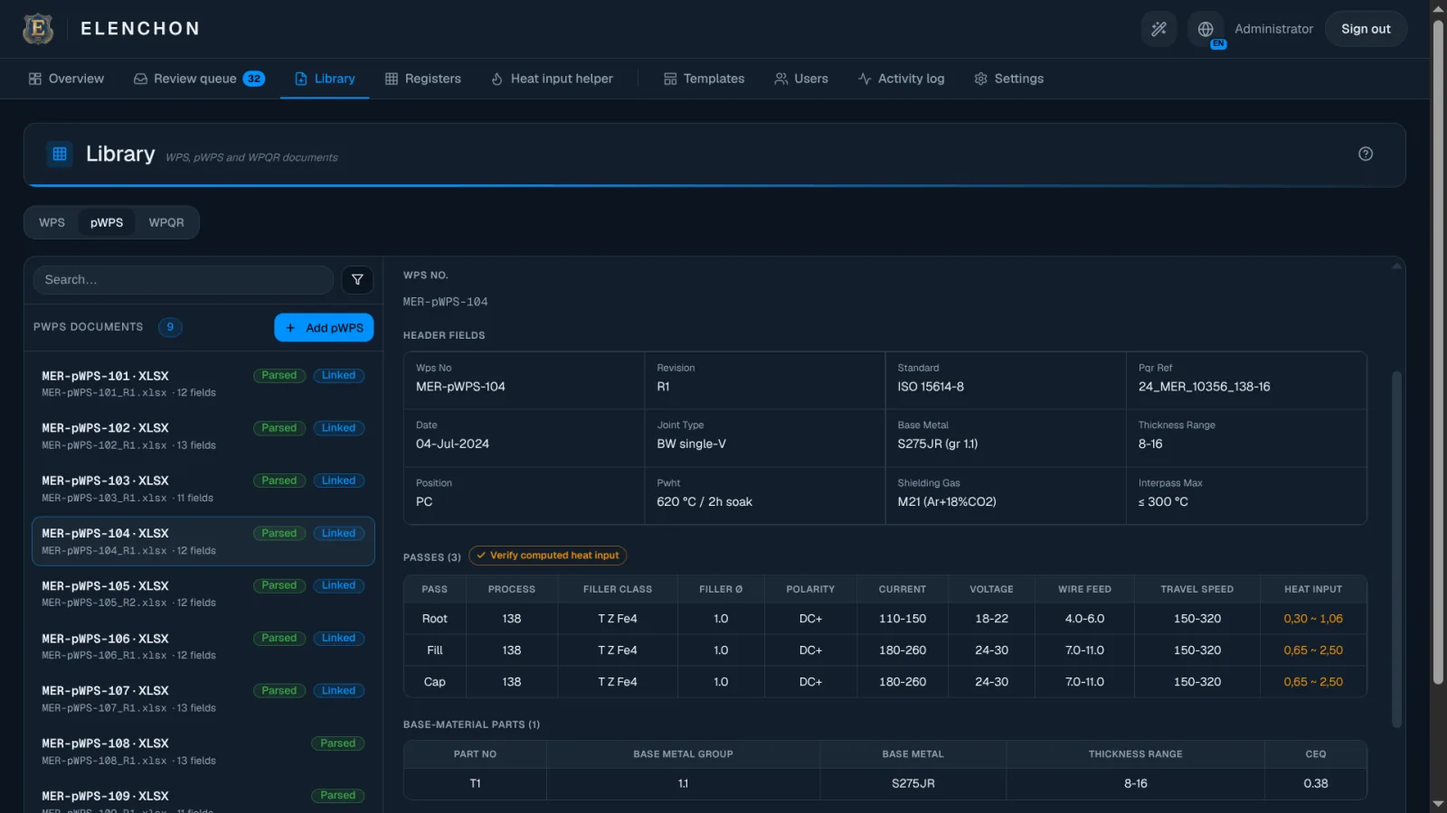
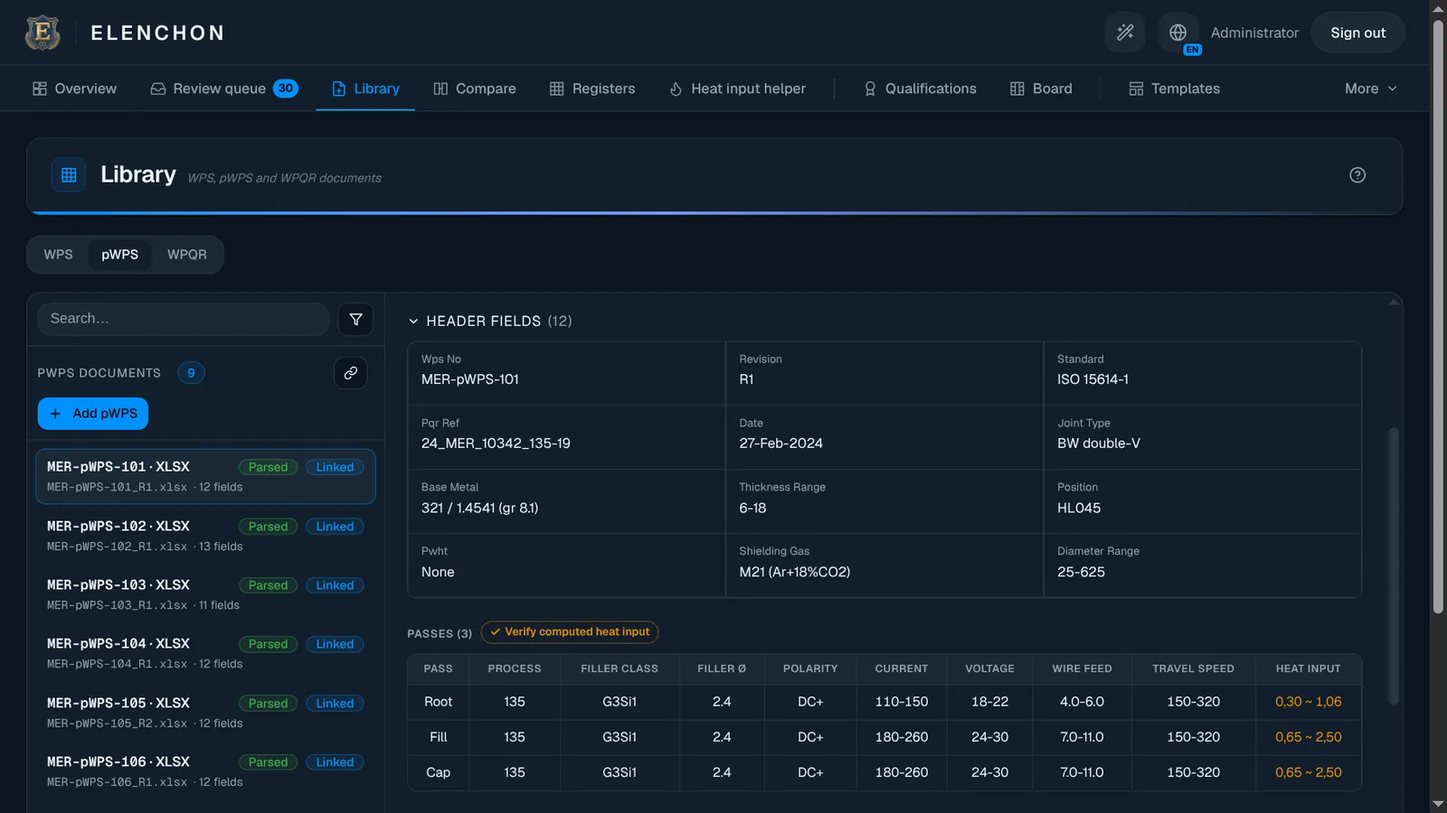
update sss

diff --git a/docs/wps-manager-features.html b/docs/wps-manager-features.html
@@ -38,8 +38,8 @@ alt_url: "/pt/wps-manager-features.html"
         </div>
         {% include app-shot.html
             name="overview" wide="true" w="1600" h="900"
-            alt="Elenchon overview dashboard: a Needs Attention panel with 29 WPS fields to review, register up to date, and At a Glance tiles showing 26 WPS, 9 pWPS, 11 WPQR, 26 WPS with a WPQR and 7 team members"
-            cap="The overview: fields flagged for a check, the register's status, and the full library count — WPS, pWPS and WPQR — in one place." %}
+            alt="Elenchon overview dashboard: a Needs Attention panel with one lapsed qualification, 30 WPS fields to review, register up to date, one welder qualification expiring soon and three welders due for reverification, above At a Glance tiles showing 26 WPS, 9 pWPS, 11 WPQR, 26 WPS with a WPQR, 8 workers holding 11 qualifications and 7 team members"
+            cap="The overview: fields flagged for a check, the register's status, what's due on the qualification side, and the full count — WPS, pWPS, WPQR and welders — in one place." %}
         <p class="story-note">The <strong>Needs attention</strong> panel surfaces the parsed values read with low confidence and links straight to them; everything the app is confident about stays out of your way.</p>
     </section>
 
@@ -100,7 +100,7 @@ alt_url: "/pt/wps-manager-features.html"
         <div class="glass-card feature-block feature-block-solo" id="registers-detail">
             <span class="feature-index">03</span>
             <ul class="feature-list">
-                <li><strong>Visualised, not just stored:</strong> Your master sheet opens as a fast, filterable grid — here, 36 rows across 28 columns — instead of a spreadsheet you scroll by hand.</li>
+                <li><strong>Visualised, not just stored:</strong> Your master sheet opens as a fast, filterable grid — here, 27 rows across 28 columns — instead of a spreadsheet you scroll by hand.</li>
                 <li><strong>Every version kept:</strong> Each approved change-set makes a new version. Roll back to any snapshot; the newest is always protected.</li>
                 <li><strong>Export on demand:</strong> Produce a clean Excel workbook whenever you need it — or an export bundle (.zip) with the register plus the folder of linked WPS files, so the paperwork travels with the sheet.</li>
                 <li><strong>Re-compute &amp; sync:</strong> Pull the latest values from the library into the register in one action, so the sheet never quietly drifts from the documents behind it.</li>
@@ -132,9 +132,9 @@ alt_url: "/pt/wps-manager-features.html"
         </div>
         {% include app-shot.html
             name="library" wide="true" w="1600" h="900"
-            alt="Library detail for MER-pWPS-104: header fields including qualification standard ISO 15614-8, supporting PQR reference and base metal S275JR, a three-pass table (root, fill, cap) on process 138 with filler class, current, voltage, travel speed and heat input, and a base-material parts table below"
-            cap="A document read to the field: the header block, every pass — root to cap — with its parameters and heat-input values, and the base-material parts, all structured and searchable." %}
-        <p class="story-note">MER-pWPS-104, read from an Excel workbook: ISO&nbsp;15614-8, S275JR, three passes on process 138, each with its own current, voltage and travel-speed window — and the base-material parts read into their own table.</p>
+            alt="Library detail for MER-pWPS-101: twelve header fields including standard ISO 15614-1, PQR reference 24_MER_10342_135-19, a BW double-V joint, base metal 321 / 1.4541, thickness and diameter ranges and M21 shielding gas, above a three-pass table (root, fill, cap) on process 135 with G3Si1 filler, polarity, current, voltage, wire feed, travel speed and computed heat input flagged for verification"
+            cap="A document read to the field: the header block and every pass — root to cap — with its parameters and heat-input values, all structured and searchable." %}
+        <p class="story-note">MER-pWPS-101, read from an Excel workbook: ISO&nbsp;15614-1, a 321 stainless double-V, three passes on process 135, each with its own current, voltage, wire-feed and travel-speed window. The heat input was left blank on the form, so the app computed it — and shows it in amber behind a single <strong>Verify computed heat input</strong> check until someone confirms it.</p>
     </section>
 
     <!-- ===================== LINKED CHAIN ===================== -->
@@ -200,8 +200,8 @@ alt_url: "/pt/wps-manager-features.html"
         </div>
         {% include app-shot.html
             name="quals-grid" wide="true" w="1600" h="900"
-            alt="Welder qualification grid: welders in rows, welding processes in columns, each cell colour-coded to the soonest-due qualification for that welder and process, with filter controls above"
-            cap="The qualification grid: welders against the processes they hold, each cell coloured by what’s due soonest — filterable down to a single process or standard." %}
+            alt="Qualification board: eight welders in rows against processes 111, 121, 135, 136, 138 and 141, each held qualification coloured by status — clear, due within a month, two weeks or this week, or expired — with a colour legend, a Show standard toggle and a Filter button above"
+            cap="The qualification board: welders against the processes they hold, each cell coloured by what’s due soonest — from clear through to expired — and filterable down to a single process or standard." %}
     </section>
 
     <section class="page-section container" id="qualification-warnings">
@@ -220,9 +220,9 @@ alt_url: "/pt/wps-manager-features.html"
             </ul>
         </div>
         {% include app-shot.html
-            name="quals-warnings" wide="true" w="1600" h="900"
-            alt="Welder qualification dashboard warnings: a panel showing how many qualifications are expiring soon, colour-coded by proximity, with email reminder recipients configured"
-            cap="Warnings on the dashboard: what’s expiring soon, colour-coded by how close, with opt-in email reminders to a recipient list." %}
+            name="quals-warnings" wide="true" w="1600" h="334"
+            alt="The Needs Attention panel on the overview: one qualification has lapsed and needs a catch-up or signed expiration, one welder qualification expires within a month, and three welders need reverification — one this week, one within two weeks, one within a month — each linking to the qualifications page or the board"
+            cap="Warnings on the dashboard: a lapsed qualification, what’s expiring soon, and who’s due for reverification — broken down by how close, one click from the board." %}
     </section>
 
     <section class="page-section container" id="qualification-record">
@@ -243,8 +243,8 @@ alt_url: "/pt/wps-manager-features.html"
         </div>
         {% include app-shot.html
             name="quals-record" wide="true" w="1600" h="900"
-            alt="A welder qualification record with a signed requalification stamp showing date and name, the attached certificate viewable, and a side-by-side file viewer comparing two documents"
-            cap="A qualification record: the signed, dated requalification stamp, the attached certificate, and the side-by-side viewer set to compare any two files." %}
+            alt="Qualifications page: a welder list sorted by soonest due with status dots, and the record for Simon Lowe (A1004) showing two ISO 9606-1 qualifications — process 111 with continuity lapsed on 13/09/2026 and Catch up and Confirm expiration actions, and process 135 in date — each with expiry and continuity dates and a signed, dated confirmation naming the NDT report and job weld log it was based on"
+            cap="A welder’s record: each qualification’s expiry and continuity dates, the signed and dated confirmation with the evidence behind it, and the next action — catch up, confirm or retire — one click away." %}
     </section>
 
     <!-- ===================== SECURITY ===================== -->

diff --git a/docs/es/wps-manager-features.html b/docs/es/wps-manager-features.html
@@ -40,7 +40,7 @@ alt_url: "/wps-manager-features.html"
         </div>
         {% include app-shot.html
             name="overview" wide="true" w="1600" h="900"
-            alt="Panel de resumen del Elenchon: un panel Necesita atención con 29 campos de WPS que revisar, registro actualizado, y mosaicos con 26 WPS, 9 pWPS, 11 WPQR, 26 WPS con WPQR y 7 miembros de equipo"
+            alt="Panel de resumen del Elenchon: un panel Necesita atención con una cualificación caducada, 30 campos de WPS que revisar, registro actualizado, una cualificación de soldador por vencer y tres soldadores que necesitan reverificación, y mosaicos con 26 WPS, 9 pWPS, 11 WPQR, 26 WPS con WPQR, 8 soldadores con 11 cualificaciones y 7 miembros de equipo"
             cap="El resumen: campos señalados para verificación, el estado del registro, y el recuento completo de la biblioteca — WPS, pWPS y WPQR — en un solo lugar." %}
         <p class="story-note">El panel <strong>Necesita atención</strong> destaca los valores leídos con baja confianza y enlaza directamente a ellos; todo aquello de lo que la aplicación tiene certeza queda fuera de su camino.</p>
     </section>
@@ -102,7 +102,7 @@ alt_url: "/wps-manager-features.html"
         <div class="glass-card feature-block feature-block-solo" id="registers-detail">
             <span class="feature-index">03</span>
             <ul class="feature-list">
-                <li><strong>Visualizada, no solo guardada:</strong> Su hoja maestra abre como cuadrícula rápida y filtrable — aquí, 36 filas por 28 columnas — en lugar de una hoja que recorre a mano.</li>
+                <li><strong>Visualizada, no solo guardada:</strong> Su hoja maestra abre como cuadrícula rápida y filtrable — aquí, 27 filas por 28 columnas — en lugar de una hoja que recorre a mano.</li>
                 <li><strong>Cada versión guardada:</strong> Cada conjunto de cambios aprobado crea una nueva versión. Revierta a cualquier instantánea; la más reciente está siempre protegida.</li>
                 <li><strong>Exportación a demanda:</strong> Produzca una hoja Excel limpia cuando necesite — o un paquete de exportación (.zip) con el registro más la carpeta de ficheros WPS asociados, para que la documentación viaje con la hoja.</li>
                 <li><strong>Recalcular y sincronizar:</strong> Traiga los valores más recientes de la biblioteca al registro en una acción, para que la hoja nunca se desalinee de los documentos detrás de ella.</li>
@@ -134,9 +134,9 @@ alt_url: "/wps-manager-features.html"
         </div>
         {% include app-shot.html
             name="library" wide="true" w="1600" h="900"
-            alt="Detalle de la biblioteca para MER-pWPS-104: campos de cabecera incluyendo norma de cualificación ISO 15614-8, referencia del PQR de soporte y metal base S275JR, una tabla de tres pasadas (raíz, relleno, peineta) en el proceso 138 con clase de consumible, corriente, tensión, velocidad y aporte térmico, y una tabla de material base debajo"
-            cap="Un documento leído al campo: el bloque de cabecera, cada pasada — de la raíz a la peineta — con sus parámetros y valores de aporte térmico, y el material base, todo estructurado y buscable." %}
-        <p class="story-note">MER-pWPS-104, leído de una hoja Excel: ISO&nbsp;15614-8, S275JR, tres pasadas en el proceso 138, cada una con su ventana de corriente, tensión y velocidad — y el material base leído a su propia tabla.</p>
+            alt="Detalle de la biblioteca para MER-pWPS-101: doce campos de cabecera incluyendo la norma ISO 15614-1, la referencia de PQR 24_MER_10342_135-19, una junta BW en doble V, metal base 321 / 1.4541, rangos de espesor y diámetro y gas de protección M21, sobre una tabla de tres pasadas (raíz, relleno, peineta) en el proceso 135 con consumible G3Si1, polaridad, corriente, tensión, velocidad de hilo, velocidad de avance y aporte térmico calculado, señalado para verificación"
+            cap="Un documento leído al campo: el bloque de cabecera y cada pasada — de la raíz a la peineta — con sus parámetros y valores de aporte térmico, todo estructurado y buscable." %}
+        <p class="story-note">MER-pWPS-101, leído de una hoja Excel: ISO&nbsp;15614-1, un doble V en inoxidable 321, tres pasadas en el proceso 135, cada una con su ventana de corriente, tensión, velocidad de hilo y velocidad de avance. El aporte térmico venía en blanco en el formulario, así que la aplicación lo calculó — y lo muestra en ámbar tras una única comprobación <strong>Verificar aporte térmico calculado</strong> hasta que alguien lo confirme.</p>
     </section>
 
     <!-- CADENA -->

diff --git a/docs/pt/wps-manager-features.html b/docs/pt/wps-manager-features.html
@@ -40,7 +40,7 @@ alt_url: "/wps-manager-features.html"
         </div>
         {% include app-shot.html
             name="overview" wide="true" w="1600" h="900"
-            alt="Painel de resumo do Elenchon: um painel Precisa de atenção com 29 campos de WPS a rever, registo atualizado, e mosaicos com 26 WPS, 9 pWPS, 11 WPQR, 26 WPS com WPQR e 7 membros de equipa"
+            alt="Painel de resumo do Elenchon: um painel Precisa de atenção com uma qualificação caducada, 30 campos de WPS a rever, registo atualizado, uma qualificação de soldador a expirar e três soldadores a precisar de reverificação, e mosaicos com 26 WPS, 9 pWPS, 11 WPQR, 26 WPS com WPQR, 8 soldadores com 11 qualificações e 7 membros de equipa"
             cap="O resumo: campos sinalizados para verificação, o estado do registo, e a contagem completa da biblioteca — WPS, pWPS e WPQR — num só lugar." %}
         <p class="story-note">O painel <strong>Precisa de atenção</strong> destaca os valores lidos com baixa confiança e liga diretamente a eles; tudo aquilo de que a aplicação tem a certeza fica fora do seu caminho.</p>
     </section>
@@ -102,7 +102,7 @@ alt_url: "/wps-manager-features.html"
         <div class="glass-card feature-block feature-block-solo" id="registers-detail">
             <span class="feature-index">03</span>
             <ul class="feature-list">
-                <li><strong>Visualizada, não apenas guardada:</strong> A sua folha-mestre abre como grelha rápida e filtrável — aqui, 36 linhas por 28 colunas — em vez de uma folha que percorre à mão.</li>
+                <li><strong>Visualizada, não apenas guardada:</strong> A sua folha-mestre abre como grelha rápida e filtrável — aqui, 27 linhas por 28 colunas — em vez de uma folha que percorre à mão.</li>
                 <li><strong>Cada versão guardada:</strong> Cada conjunto de alterações aprovado cria uma nova versão. Reverta para qualquer instantâneo; a mais recente está sempre protegida.</li>
                 <li><strong>Exportação a pedido:</strong> Produza uma folha Excel limpa quando precisar — ou um pacote de exportação (.zip) com o registo mais a pasta de ficheiros WPS associados, para a papelada viajar com a folha.</li>
                 <li><strong>Recalcular e sincronizar:</strong> Puxe os valores mais recentes da biblioteca para o registo numa ação, para a folha nunca se desalinhar dos documentos por trás dela.</li>
@@ -134,9 +134,9 @@ alt_url: "/wps-manager-features.html"
         </div>
         {% include app-shot.html
             name="library" wide="true" w="1600" h="900"
-            alt="Detalhe da biblioteca para MER-pWPS-104: campos de cabeçalho incluindo norma de qualificação ISO 15614-8, referência do PQR de suporte e metal base S275JR, uma tabela de três passes (raiz, enchimento, capa) no processo 138 com classe de consumível, corrente, tensão, velocidade e aporte térmico, e uma tabela de material de base por baixo"
-            cap="Um documento lido ao campo: o bloco de cabeçalho, cada passe — da raiz à capa — com os seus parâmetros e valores de aporte térmico, e o material de base, tudo estruturado e pesquisável." %}
-        <p class="story-note">MER-pWPS-104, lido de uma folha Excel: ISO&nbsp;15614-8, S275JR, três passes no processo 138, cada um com a sua janela de corrente, tensão e velocidade — e o material de base lido para a sua própria tabela.</p>
+            alt="Detalhe da biblioteca para MER-pWPS-101: doze campos de cabeçalho incluindo a norma ISO 15614-1, a referência de PQR 24_MER_10342_135-19, uma junta BW em duplo V, metal base 321 / 1.4541, gamas de espessura e diâmetro e gás de proteção M21, sobre uma tabela de três passes (raiz, enchimento, capa) no processo 135 com consumível G3Si1, polaridade, corrente, tensão, velocidade do fio, velocidade de avanço e aporte térmico calculado, sinalizado para verificação"
+            cap="Um documento lido ao campo: o bloco de cabeçalho e cada passe — da raiz à capa — com os seus parâmetros e valores de aporte térmico, tudo estruturado e pesquisável." %}
+        <p class="story-note">MER-pWPS-101, lido de uma folha Excel: ISO&nbsp;15614-1, um duplo V em inox 321, três passes no processo 135, cada um com a sua janela de corrente, tensão, velocidade do fio e velocidade de avanço. O aporte térmico vinha em branco no formulário, por isso a aplicação calculou-o — e mostra-o a âmbar atrás de uma única verificação <strong>Verificar aporte térmico calculado</strong> até alguém o confirmar.</p>
     </section>
 
     <!-- CADEIA -->

diff --git a/docs/es/wps-library-search-software.html b/docs/es/wps-library-search-software.html
@@ -7,7 +7,7 @@ description: "Gestione toda su biblioteca de WPS en la aplicación — cada WPS,
 og_title: "Biblioteca y Búsqueda de WPS — Gestione Cada WPS en Un Solo Lugar | Elenchon Atlas"
 og_description: "Una biblioteca de WPS que comprende sus documentos: filtre por proceso, material, posición, lado y función de la pasada; revisiones agrupadas automáticamente; WPS↔WPQR↔pWPS asociadas; edite y verifique en el momento. Gestione toda la biblioteca en la aplicación — sin necesidad de Excel."
 og_image: "/static/wpsm/library.webp"
-og_image_alt: "Elenchon Atlas — the WPS library with header fields, the pass table and facet filters"
+og_image_alt: "Elenchon Atlas — the WPS library with header fields and the pass table"
 twitter_large: true
 og_image_alt: "Elenchon Atlas by Delteris — software de biblioteca y búsqueda de WPS"
 schema: schema/wps-library-search-software.json
@@ -48,8 +48,8 @@ alt_url: "/wps-library-search-software.html"
     <section class="page-section container u-tight-top" id="screenshot-hero">
         {% include app-shot.html
             name="library" wide="true"
-            alt="Biblioteca del Atlas — pestañas WPS, pWPS y WPQR, un documento que muestra campos de cabecera y la tabla de pasadas, con el panel de facetas abierto"
-            cap="La biblioteca: pestañas WPS / pWPS / WPQR, la tabla de pasadas completa con lado y función, y las facetas abiertas."
+            alt="Biblioteca del Atlas — pestañas WPS, pWPS y WPQR, una lista de pWPS leídos y asociados, y el MER-pWPS-101 abierto con sus doce campos de cabecera y una tabla de tres pasadas con aporte térmico calculado señalado para verificación"
+            cap="La biblioteca: pestañas WPS / pWPS / WPQR, cada documento marcado como Leído y Asociado, y un pWPS leído hasta el bloque de cabecera y la tabla de pasadas completa."
             ph="La biblioteca — pestañas WPS/pWPS/WPQR, un doc que muestra cabecera + tabla de pasadas (lado/función), panel de facetas, indicador «N revisiones»." %}
     </section>
 

diff --git a/docs/pt/wps-library-search-software.html b/docs/pt/wps-library-search-software.html
@@ -7,7 +7,7 @@ description: "Gira toda a sua biblioteca de WPS na aplicação — cada WPS, pWP
 og_title: "Biblioteca e Pesquisa de WPS — Gira Cada WPS Num Só Lugar | Elenchon Atlas"
 og_description: "Uma biblioteca de WPS que compreende os seus documentos: filtre por processo, material, posição, lado e função do passe; revisões agrupadas automaticamente; WPS↔WPQR↔pWPS associadas; edite e verifique no momento. Gira toda a biblioteca na aplicação — sem precisar de Excel."
 og_image: "/static/wpsm/library.webp"
-og_image_alt: "Elenchon Atlas — the WPS library with header fields, the pass table and facet filters"
+og_image_alt: "Elenchon Atlas — the WPS library with header fields and the pass table"
 twitter_large: true
 og_image_alt: "Elenchon Atlas by Delteris — software de biblioteca e pesquisa de WPS"
 schema: schema/wps-library-search-software.json
@@ -48,8 +48,8 @@ alt_url: "/wps-library-search-software.html"
     <section class="page-section container u-tight-top" id="screenshot-hero">
         {% include app-shot.html
             name="library" wide="true"
-            alt="Biblioteca do Atlas — separadores WPS, pWPS e WPQR, um documento a mostrar campos de cabeçalho e a tabela de passes, com o painel de facetas aberto"
-            cap="A biblioteca: separadores WPS / pWPS / WPQR, a tabela de passes completa com lado e função, e as facetas abertas."
+            alt="Biblioteca do Atlas — separadores WPS, pWPS e WPQR, uma lista de pWPS lidos e associados, e o MER-pWPS-101 aberto com os seus doze campos de cabeçalho e uma tabela de três passes com aporte térmico calculado sinalizado para verificação"
+            cap="A biblioteca: separadores WPS / pWPS / WPQR, cada documento marcado como Lido e Associado, e um pWPS lido até ao bloco de cabeçalho e à tabela de passes completa."
             ph="A biblioteca — separadores WPS/pWPS/WPQR, um doc a mostrar cabeçalho + tabela de passes (lado/função), painel de facetas, indicador “N revisões”." %}
     </section>
 

diff --git a/docs/wps-library-search-software.html b/docs/wps-library-search-software.html
@@ -5,7 +5,7 @@ description: "Manage your whole WPS library in the app — every WPS, pWPS and W
 og_title: "WPS Library &amp; Search — Manage Every WPS in One Place | Elenchon Atlas"
 og_description: "A WPS library that understands its documents: filter by process, material, position, side and pass role; revisions grouped automatically; WPS↔WPQR↔pWPS linked; edit and verify in place. Manage the whole library in the app — no Excel needed."
 og_image: "/static/wpsm/library.webp"
-og_image_alt: "Elenchon Atlas — the WPS library with header fields, the pass table and facet filters"
+og_image_alt: "Elenchon Atlas — the WPS library with header fields and the pass table"
 twitter_large: true
 og_image_alt: "Elenchon Atlas by Delteris — WPS library and search software"
 schema: schema/wps-library-search-software.json
@@ -46,8 +46,8 @@ alt_url: "/pt/wps-library-search-software.html"
     <section class="page-section container u-tight-top" id="screenshot-hero">
         {% include app-shot.html
             name="library" wide="true"
-            alt="Atlas library — WPS, pWPS and WPQR tabs, a document showing header fields and the pass table, with the facet panel open"
-            cap="The library: WPS / pWPS / WPQR tabs, the full pass table with side and role, and facet filters open."
+            alt="Atlas library — WPS, pWPS and WPQR tabs, a list of parsed and linked pWPS documents, and MER-pWPS-101 open showing its twelve header fields and a three-pass table with computed heat input flagged for verification"
+            cap="The library: WPS / pWPS / WPQR tabs, each document marked Parsed and Linked, and a pWPS read down to its header block and full pass table."
             ph="The library — WPS/pWPS/WPQR tabs, a doc showing header fields + pass table (side/role), facet panel open, an “N revisions” chip." %}
     </section>
 

diff --git a/docs/es/wps-management-software.html b/docs/es/wps-management-software.html
@@ -66,8 +66,8 @@ alt_url: "/wps-management-software.html"
         {% include app-shot.html
             name="overview"
             wide="true"
-            alt="Panel de resumen de Elenchon Atlas — tarjetas de atención y mosaicos WPS, pWPS, WPQR y cualificadas"
-            cap="Todo de un vistazo: lo que necesita revisión y el recuento completo de procedimientos que posee."
+            alt="Panel de resumen de Elenchon Atlas — tarjetas de atención para una cualificación caducada, campos de WPS que revisar, cualificaciones por vencer y soldadores que reverificar, sobre mosaicos WPS, pWPS, WPQR y cualificaciones de soldadores"
+            cap="Todo de un vistazo: lo que necesita revisión, qué cualificaciones vencen, y el recuento completo de procedimientos y soldadores."
             ph="Panel de resumen de la aplicación — el saludo, las tarjetas “Necesita atención” y los mosaicos WPS / pWPS / WPQR / cualificadas." %}
     </section>
 

diff --git a/docs/pt/wps-management-software.html b/docs/pt/wps-management-software.html
@@ -66,8 +66,8 @@ alt_url: "/wps-management-software.html"
         {% include app-shot.html
             name="overview"
             wide="true"
-            alt="Painel de resumo do Elenchon Atlas — cartões de atenção e mosaicos WPS, pWPS, WPQR e qualificadas"
-            cap="Tudo num relance: o que precisa de revisão e a contagem completa de procedimentos que possui."
+            alt="Painel de resumo do Elenchon Atlas — cartões de atenção para uma qualificação caducada, campos de WPS a rever, qualificações a expirar e soldadores a reverificar, sobre mosaicos WPS, pWPS, WPQR e qualificações de soldadores"
+            cap="Tudo num relance: o que precisa de revisão, que qualificações estão a vencer, e a contagem completa de procedimentos e soldadores."
             ph="Painel de resumo da aplicação — a saudação, os cartões “Precisa de atenção” e os mosaicos WPS / pWPS / WPQR / qualificadas." %}
     </section>
 

diff --git a/docs/wps-management-software.html b/docs/wps-management-software.html
@@ -64,8 +64,8 @@ alt_url: "/pt/wps-management-software.html"
         {% include app-shot.html
             name="overview"
             wide="true"
-            alt="Elenchon Atlas overview dashboard — needs-attention cards and WPS, pWPS, WPQR and qualified stat tiles"
-            cap="Everything at a glance: what needs review, and the full count of procedures you hold."
+            alt="Elenchon Atlas overview dashboard — needs-attention cards for a lapsed qualification, WPS fields to review, qualifications expiring and welders due for reverification, above WPS, pWPS, WPQR and welder-qualification stat tiles"
+            cap="Everything at a glance: what needs review, which qualifications are due, and the full count of procedures and welders you hold."
             ph="App overview dashboard — the greeting, the “Needs attention” cards and the WPS / pWPS / WPQR / qualified stat tiles." %}
     </section>
 
